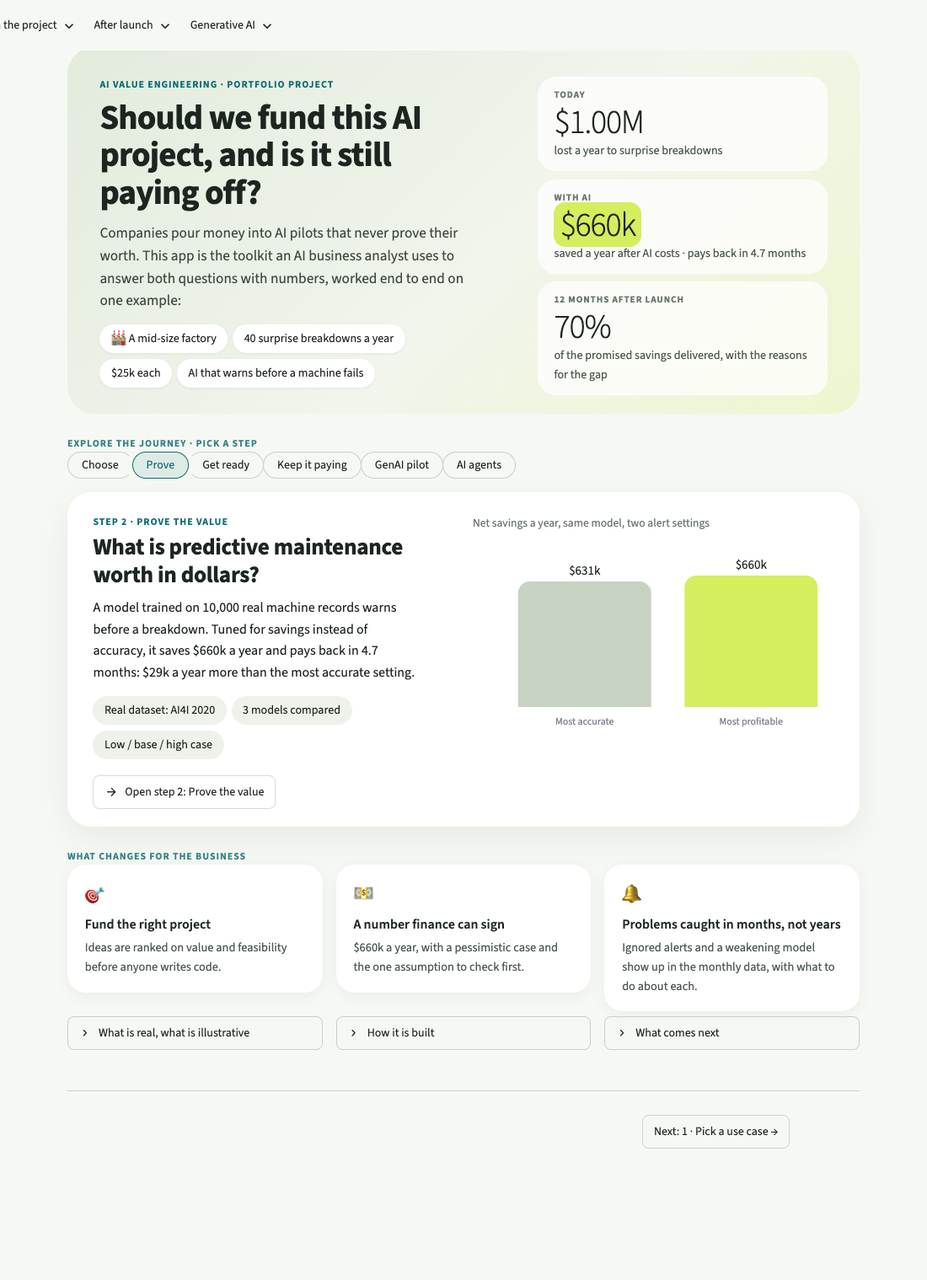
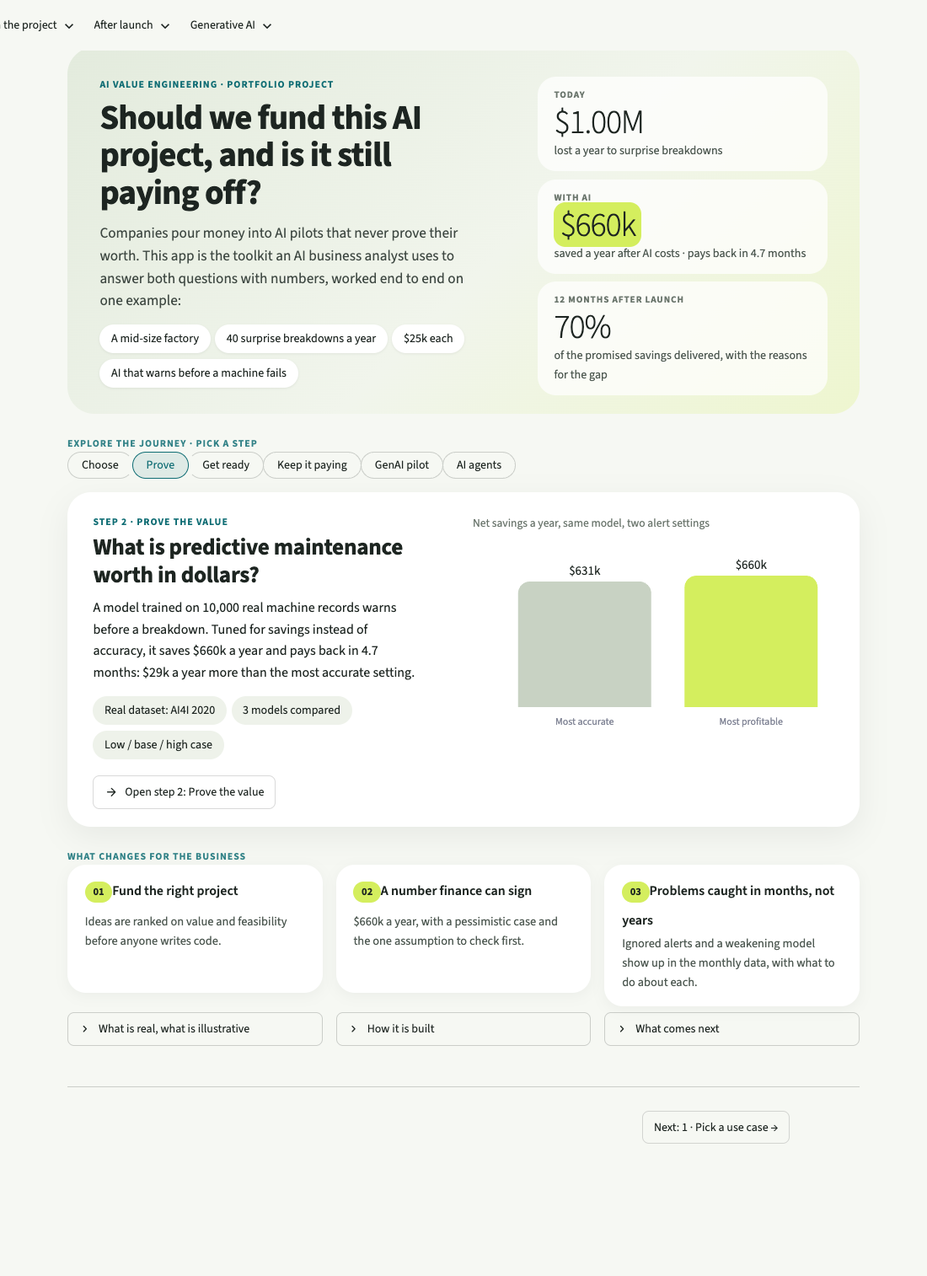
Remove emojis; monthly bars instead of the cumulative fan chart on Track and overview

diff --git a/app.py b/app.py
@@ -59,7 +59,7 @@ from src.value import (
     sweep,
 )
 
-st.set_page_config(page_title="AI Use-Case ROI Navigator", page_icon="📈", layout="wide")
+st.set_page_config(page_title="AI Use-Case ROI Navigator", page_icon=":material/insights:", layout="wide")
 
 QUADRANT_COLORS = {
     "Quick win": "#1d7a45",
@@ -515,6 +515,22 @@ def load_pipeline() -> dict | None:
     return {"gold": gold, "log": log, "matches": bool(matches)}
 
 
+def monthly_vs_forecast(t: pd.DataFrame, ok_color: str, alert_color: str, height: int = 320) -> go.Figure:
+    """Actual net savings per month as bars, the monthly forecast as a dashed line; alert months highlighted."""
+    alert = t["adoption_alert"] | t["drift_alert"]
+    why = np.where(t["drift_alert"] & t["adoption_alert"], "adoption and drift alert",
+                   np.where(t["drift_alert"], "drift alert", np.where(t["adoption_alert"], "adoption alert", "on track")))
+    fig = go.Figure([
+        go.Bar(x=t["month"], y=t["actual"], name="Actual", showlegend=False, marker=dict(color=np.where(alert, alert_color, ok_color),
+                                                                         cornerradius=6),
+               customdata=why, hovertemplate="%{x}: %{y:$,.0f} (%{customdata})<extra></extra>"),
+        go.Scatter(x=t["month"], y=t["forecast"], name="Forecast", mode="lines", line=dict(color="#15222a", dash="dash", width=2),
+                   hovertemplate="Forecast %{y:$,.0f}<extra></extra>")])
+    fig.update_layout(height=height, margin=dict(l=10, r=10, t=10, b=10), yaxis=dict(tickformat="$,.0f", title=""),
+                      xaxis_title="", legend=dict(orientation="h", y=-0.2), bargap=0.25)
+    return fig
+
+
 def page_track():
     answer, client, detail = page_header(5, "Is it paying off?",
                                          "After launch, monthly counts from the maintenance system are turned into "
@@ -546,7 +562,7 @@ def page_track():
                 f"flow through bronze (as received) → silver (checked) → gold (dollars, adoption, drift). "
                 f"Last refresh {log['refreshed_at'][:16].replace('T', ' ')} UTC: {log['bronze_rows']} files received, "
                 f"{log['silver_rows']} passed the checks, {len(log['quarantined'])} quarantined. "
-                + ("Gold matches this page's formula exactly." if pipe["matches"] else "⚠ Gold differs from this page's formula.")))
+                + ("Gold matches this page's formula exactly." if pipe["matches"] else "Warning: gold differs from this page's formula.")))
             for q in log["quarantined"]:
                 st.markdown(md(f"- Quarantined `{q['file']}` ({q['month']}): {q['reason']}"))
         st.caption("The data is a simulated 12-month rollout, not real plant data: adoption is slow at first, then "
@@ -632,17 +648,7 @@ def page_track():
     with t_data:
         st.dataframe(t[COLUMNS + ["recall", "adoption", "actual", "forecast"]].round(2), hide_index=True, width="stretch")
 
-    lo, hi = val["band"]["annual_net"]
-    k = np.arange(1, n + 1)
-    figc = go.Figure()
-    figc.add_trace(go.Scatter(x=t["month"], y=hi / 12 * k, mode="lines", line=dict(width=0), showlegend=False, hoverinfo="skip"))
-    figc.add_trace(go.Scatter(x=t["month"], y=lo / 12 * k, mode="lines", fill="tonexty", fillcolor="rgba(15,109,116,0.12)",
-                              line=dict(width=0), name="Forecast range", hoverinfo="skip"))
-    figc.add_trace(go.Scatter(x=t["month"], y=t["cum_forecast"], name="Forecast", mode="lines",
-                              line=dict(color="#0f6d74", dash="dash")))
-    figc.add_trace(go.Scatter(x=t["month"], y=t["cum_actual"], name="Actual", mode="lines+markers", line=dict(color="#a25f00")))
-    figc.update_layout(height=320, margin=dict(l=10, r=10, t=10, b=10), yaxis=dict(tickformat="$,.0f", title=""),
-                       xaxis_title="", legend=dict(orientation="h", y=-0.2))
+    figc = monthly_vs_forecast(t, "#0f6d74", "#c98a2b", height=320)
 
     steps = []
     if tk["drift_now"]:
@@ -661,7 +667,7 @@ def page_track():
               ("Forecast delivered", f"{pct*100:.0f}%" if np.isfinite(pct) else "n/a", f"of {money(promised)}"),
               ("Failures caught now", f"{recall_now*100:.0f}%" if np.isfinite(recall_now) else "n/a",
                f"{val['recall']*100:.0f}% at launch")])
-        st.markdown("**Cumulative net savings since go-live**")
+        st.markdown("**Net savings each month vs the forecast** (amber = a month with an adoption or drift alert)")
         st.plotly_chart(figc, width="stretch")
         if steps:
             next_steps(steps)
@@ -774,7 +780,7 @@ def page_pilot():
         d1, d2 = st.columns(2)
         for col, v in ((d1, 1), (d2, 2)):
             row = pilot["runs"][v].set_index("case_id").loc[pick]
-            col.markdown(f"**Version {v}** {'✅' if row['correct_mode'] else '❌'}")
+            col.markdown(f"**Version {v}** · {'right cause' if row['correct_mode'] else 'wrong cause'}")
             with col:
                 show_draft(row["reply"])
 
@@ -838,8 +844,7 @@ def show_objections(reply: str):
     d = parse(reply) or {}
     esc = lambda t: md(str(t)).replace("*", "\\*")
     for o in d.get("objections", []):
-        icon = {"high": "🔴", "medium": "🟠", "low": "⚪"}.get(o.get("severity"), "⚪")
-        line = f"{icon} **{esc(o.get('assumption'))}** ({o.get('severity', 'n/a')}): {esc(o.get('issue') or o.get('why') or '')}"
+        line = f"**{str(o.get('severity', 'n/a')).upper()}** · **{esc(o.get('assumption'))}**: {esc(o.get('issue') or o.get('why') or '')}"
         if o.get("issue") and o.get("why"):
             line += f"  \n{esc(o['why'])}"
         st.markdown(line)
@@ -932,7 +937,7 @@ def page_agents():
         m1, m2 = st.columns(2)
         for c, v in ((m1, "v1"), (m2, "v2")):
             g = next(r for r in sc[v]["rows"]["memo"] if r["id"] == pick)
-            c.markdown(f"**{v}** {'✅ every number traces to a fact' if g['faithful'] else '❌ invented: ' + ', '.join(f'{n:,.0f}' for n in g['invented'])}")
+            c.markdown(f"**{v}** {'· every number traces to a fact' if g['faithful'] else '· invented: ' + ', '.join(f'{n:,.0f}' for n in g['invented'])}")
             c.markdown(md(agent_reply(v, pick)).replace("## ", "#### "))
 
     with t_rt:
@@ -1149,22 +1154,15 @@ def tour_content(step: str) -> dict:
         t = default_track_frame()
         tk = default_tracking()
         drift = t.loc[t["drift_alert"], "month"].tolist()
-        fig = go.Figure([
-            go.Scatter(x=t["month"], y=t["cum_forecast"], mode="lines", line=dict(color=SAGE, width=3, dash="dot"),
-                       hoverinfo="skip"),
-            go.Scatter(x=t["month"], y=t["cum_actual"], mode="lines", line=dict(color=INK, width=3), fill="tozeroy",
-                       fillcolor="rgba(212,238,94,0.45)", hoverinfo="skip")])
-        fig.add_annotation(x=t["month"].iloc[-1], y=t["cum_forecast"].iloc[-1], text="forecast", showarrow=False,
-                           xanchor="right", yshift=14, font=dict(color="#6b766d"))
-        fig.add_annotation(x=t["month"].iloc[-1], y=t["cum_actual"].iloc[-1], text=f"actual {money(tk['delivered'])}",
-                           showarrow=False, xanchor="right", yshift=-28, font=dict(color=INK), bgcolor="rgba(255,255,255,0.85)")
+        fig = mini_chart(monthly_vs_forecast(t, SAGE, "#e3a948", height=260), 260)
+        fig.update_yaxes(showticklabels=False)
         return dict(page="track", label="Step 5 · Track the value", q="After launch, is it delivering what was promised?",
                     a=f"Monthly maintenance data flows from S3 through a Databricks pipeline. After {tk['months']} months "
                       f"it delivered **{tk['pct']*100:.0f}% of the forecast**. The app splits the gap into causes and "
                       + (f"flagged in {drift[0]} that the model had started missing failures." if drift
                          else "watches for the model getting worse."),
                     chips=["S3 → Databricks", "Bronze · silver · gold", "Drift and adoption alerts"],
-                    chart_title="Cumulative net savings since go-live (simulated rollout)", fig=mini_chart(fig))
+                    chart_title="Net savings each month vs forecast (amber = alert month, simulated rollout)", fig=fig)
     pilot = load_pilot()["summary"]
     if step == "GenAI pilot":
         s1, s2 = pilot[1], pilot[2]
@@ -1205,7 +1203,7 @@ def page_home():
             'toolkit an AI business analyst uses to answer both questions with numbers, worked end to end on one '
             'example:</div>'
             + "".join(f'<span class="chip">{esc_html(x)}</span>' for x in
-                      ("🏭 A mid-size factory", f"{c.failures_per_year} surprise breakdowns a year",
+                      ("A mid-size factory", f"{c.failures_per_year} surprise breakdowns a year",
                        f"{money(c.cost_missed)} each", "AI that warns before a machine fails")),
             unsafe_allow_html=True)
         right.markdown(
@@ -1239,10 +1237,10 @@ def page_home():
     st.markdown('<div class="row-label">What changes for the business</div>', unsafe_allow_html=True)
     i1, i2, i3 = st.columns(3)
     for col, (icon, head, body) in zip((i1, i2, i3), (
-            ("🎯", "Fund the right project", "Ideas are ranked on value and feasibility before anyone writes code."),
-            ("💵", "A number finance can sign", f"{money(val['annual_net'])} a year, with a pessimistic case and the "
+            ("01", "Fund the right project", "Ideas are ranked on value and feasibility before anyone writes code."),
+            ("02", "A number finance can sign", f"{money(val['annual_net'])} a year, with a pessimistic case and the "
                                                "one assumption to check first."),
-            ("🔔", "Problems caught in months, not years", "Ignored alerts and a weakening model show up in the "
+            ("03", "Problems caught in months, not years", "Ignored alerts and a weakening model show up in the "
                                                          "monthly data, with what to do about each."))):
         col.markdown(f'<div class="why"><div class="why-icon">{icon}</div><b>{esc_html(head)}</b>'
                      f'<div class="why-text">{esc_html(body)}</div></div>', unsafe_allow_html=True)
@@ -1310,7 +1308,7 @@ st.markdown("""
 .chart-title { font-size: 0.85rem; color: #6b766d; margin-bottom: 0.2rem; }
 [data-testid="stButtonGroup"] button { border-radius: 999px !important; padding: 0.35rem 1rem; }
 .why { background: #fff; border-radius: 22px; padding: 1.1rem 1.3rem; min-height: 9.5rem; margin-bottom: 0.4rem; box-shadow: 0 4px 16px rgba(29, 37, 33, 0.05); }
-.why-icon { font-size: 1.4rem; margin-bottom: 0.3rem; }
+.why-icon { display: inline-block; font-size: 0.78rem; font-weight: 700; background: #d4ee5e; border-radius: 999px; padding: 0.15rem 0.6rem; margin-bottom: 0.5rem; }
 .why-text { font-size: 0.9rem; color: #4e5952; margin-top: 0.2rem; }
 @media (max-width: 640px) { .hero-title { font-size: 1.9rem; } .st-key-hero { padding: 1.4rem 1.2rem; border-radius: 24px; } }
 [data-testid="stExpander"] summary { font-weight: 600; }

diff --git a/docs/solution_design.md b/docs/solution_design.md
@@ -73,10 +73,10 @@ Enterprise AI services are commonly organised around four lifecycle stages: **ad
 
 | Lifecycle stage | Customer question | Epics | Built in v1 |
 |---|---|---|---|
-| **Advisory** | Which AI should we do, and is it worth it? | Epic 1 Prioritize, Epic 2 Prove value | ✅ |
-| **Implementation** | Are we ready, and how do we deploy safely? | Epic 3 Readiness, Epic 5 Responsible AI & deployment | ✅ partly |
-| **Adoption** | Will people use it, and can we prove it to finance? | Epic 4 Share, Epic 6 Adoption & value tracking | ✅ |
-| **Managed services** | Is it still delivering value after launch? | Epic 6 Adoption & value tracking | ✅ partly |
+| **Advisory** | Which AI should we do, and is it worth it? | Epic 1 Prioritize, Epic 2 Prove value | Done |
+| **Implementation** | Are we ready, and how do we deploy safely? | Epic 3 Readiness, Epic 5 Responsible AI & deployment | Partly |
+| **Adoption** | Will people use it, and can we prove it to finance? | Epic 4 Share, Epic 6 Adoption & value tracking | Done |
+| **Managed services** | Is it still delivering value after launch? | Epic 6 Adoption & value tracking | Partly |
 
 ### 3.2 Functional requirements (user stories and acceptance criteria)
 
@@ -117,41 +117,41 @@ Enterprise AI services are commonly organised around four lifecycle stages: **ad
 |---|---|---|---|
 | US-5.1 | As an ops director, I want to see why the model flagged a machine, so that technicians trust and act on alerts. | Each alert shows its top 3 drivers (e.g. tool wear, torque) in plain language. | Should (v2) |
 | US-5.2 | As an IT lead, I want to choose whether the model runs on-premises, at the edge or in the cloud, so that sensitive plant data stays where our policy requires. | Deployment option is selectable; running cost and data-location note update with the choice. | Could (v2) |
-| US-5.3 | As a governance owner, I want an accountable owner and a review trigger for model performance, so that the AI stays safe and accurate after launch. | Readiness check includes owner and monitoring questions; verdict flags gaps. | Must ✅ (covered by US-3.1) |
+| US-5.3 | As a governance owner, I want an accountable owner and a review trigger for model performance, so that the AI stays safe and accurate after launch. | Readiness check includes owner and monitoring questions; verdict flags gaps. | Must (done) (covered by US-3.1) |
 
 #### Epic 6 · Adoption & value tracking (Adoption → Managed services)
 | ID | User story | Acceptance criteria | Priority |
 |---|---|---|---|
-| US-6.1 | As an ops director, I want to compare predicted savings with actual results after go-live, so that I can prove the value to finance. | Upload monthly actuals (failures, downtime, false alarms); chart shows predicted vs actual savings. | Should ✅ (Track the value page; gap split into volume, recall, adoption and false alarms) |
-| US-6.2 | As an AI business analyst, I want to track adoption (share of alerts acted on), so that I can spot when users stop trusting the AI. | Adoption rate shown monthly; alert if it drops below 70%. | Should ✅ |
-| US-6.3 | As an AI business analyst, I want to be warned when model accuracy drifts, so that we retrain before value drops. | Alert when recall falls 10 points below launch level. | Could ✅ (3-month rolling recall, since ~3 failures a month is too few to judge one month alone) |
+| US-6.1 | As an ops director, I want to compare predicted savings with actual results after go-live, so that I can prove the value to finance. | Upload monthly actuals (failures, downtime, false alarms); chart shows predicted vs actual savings. | Should (done) (Track the value page; gap split into volume, recall, adoption and false alarms) |
+| US-6.2 | As an AI business analyst, I want to track adoption (share of alerts acted on), so that I can spot when users stop trusting the AI. | Adoption rate shown monthly; alert if it drops below 70%. | Should (done) |
+| US-6.3 | As an AI business analyst, I want to be warned when model accuracy drifts, so that we retrain before value drops. | Alert when recall falls 10 points below launch level. | Could (done) (3-month rolling recall, since ~3 failures a month is too few to judge one month alone) |
 | US-6.4 | As an ops director, I want the tool to suggest the next AI use case once the first is live, so that we expand value step by step. | After a "Go" verdict, the summary lists the next 2 quick wins from Epic 1. | Could (v2) |
 
 #### Epic 7 · GenAI pilot (Advisory → Implementation)
 | ID | User story | Acceptance criteria | Priority |
 |---|---|---|---|
-| US-7.1 | As an AI business analyst, I want to count every cost of a GenAI assistant, not just the subscription, so that the ROI isn't overstated. | Five cost categories (usage, setup, review, training, errors); reproduces the Forbes worked example (162%). | Must ✅ |
-| US-7.2 | As a finance partner, I want to see cash value separately from freed-up time, so that I only bank savings that reach the P&L. | Share of saved hours that becomes cash is an input; cash ROI shown next to ROI. | Must ✅ |
-| US-7.3 | As an AI business analyst, I want to measure cost, speed and accuracy in a real pilot before committing, so that the business case uses evidence instead of guesses. | 30 real alerts run on Amazon Bedrock; tokens, latency and cost recorded per call; drafts graded against the known cause. | Must ✅ |
-| US-7.4 | As a maintenance manager, I want the AI's diagnosis to be reliable, so that technicians don't act on a wrong cause. | Diagnosis moved to a rule check; model only writes the work order; right cause on all real failures in the pilot. | Must ✅ |
-| US-7.5 | As an AI business analyst, I want to know the review time at which the assistant stops paying, so that I know what to measure in production. | Break-even review minutes per draft shown. | Should ✅ |
+| US-7.1 | As an AI business analyst, I want to count every cost of a GenAI assistant, not just the subscription, so that the ROI isn't overstated. | Five cost categories (usage, setup, review, training, errors); reproduces the Forbes worked example (162%). | Must (done) |
+| US-7.2 | As a finance partner, I want to see cash value separately from freed-up time, so that I only bank savings that reach the P&L. | Share of saved hours that becomes cash is an input; cash ROI shown next to ROI. | Must (done) |
+| US-7.3 | As an AI business analyst, I want to measure cost, speed and accuracy in a real pilot before committing, so that the business case uses evidence instead of guesses. | 30 real alerts run on Amazon Bedrock; tokens, latency and cost recorded per call; drafts graded against the known cause. | Must (done) |
+| US-7.4 | As a maintenance manager, I want the AI's diagnosis to be reliable, so that technicians don't act on a wrong cause. | Diagnosis moved to a rule check; model only writes the work order; right cause on all real failures in the pilot. | Must (done) |
+| US-7.5 | As an AI business analyst, I want to know the review time at which the assistant stops paying, so that I know what to measure in production. | Break-even review minutes per draft shown. | Should (done) |
 
 #### Epic 8 · Analyst agents and evals (Implementation)
 | ID | User story | Acceptance criteria | Priority |
 |---|---|---|---|
-| US-8.1 | As an ops manager, I want to describe a use case in plain English and get calculator inputs, so that I don't need to know the ROI model. | Intake agent extracts tasks/year, minutes saved, review minutes, hourly cost and people; converts units in code; anything not stated stays blank with a question. | Must ✅ |
-| US-8.2 | As a CFO, I want a one-page memo where every number matches the business case, so that I can trust what I sign. | Memo agent writes with `{fact}` placeholders that code fills in; grader finds no number that isn't in the facts. | Must ✅ |
-| US-8.3 | As a CFO, I want a skeptical review that finds the weakest assumption, so that inflated business cases are sent back before approval. | Planted flaw in 6 of 6 cases raised as high/medium and listed first; no high-severity alarm on a sound case; each flag has a 30-day test. | Must ✅ |
-| US-8.4 | As an AI business analyst, I want every agent graded automatically on cases with known answers, so that prompt changes are measured, not judged by eye. | `python -m agents.grade` prints a v1 / v2 / v3 scorecard from saved runs; graders covered by unit tests. | Must ✅ |
-| US-8.5 | As the app owner, I want the public demo to show saved results and run live only where AWS credentials exist, so that visitors can't spend my credits. | Live intake only when an AWS profile is available; otherwise saved results with an explanation. | Should ✅ |
+| US-8.1 | As an ops manager, I want to describe a use case in plain English and get calculator inputs, so that I don't need to know the ROI model. | Intake agent extracts tasks/year, minutes saved, review minutes, hourly cost and people; converts units in code; anything not stated stays blank with a question. | Must (done) |
+| US-8.2 | As a CFO, I want a one-page memo where every number matches the business case, so that I can trust what I sign. | Memo agent writes with `{fact}` placeholders that code fills in; grader finds no number that isn't in the facts. | Must (done) |
+| US-8.3 | As a CFO, I want a skeptical review that finds the weakest assumption, so that inflated business cases are sent back before approval. | Planted flaw in 6 of 6 cases raised as high/medium and listed first; no high-severity alarm on a sound case; each flag has a 30-day test. | Must (done) |
+| US-8.4 | As an AI business analyst, I want every agent graded automatically on cases with known answers, so that prompt changes are measured, not judged by eye. | `python -m agents.grade` prints a v1 / v2 / v3 scorecard from saved runs; graders covered by unit tests. | Must (done) |
+| US-8.5 | As the app owner, I want the public demo to show saved results and run live only where AWS credentials exist, so that visitors can't spend my credits. | Live intake only when an AWS profile is available; otherwise saved results with an explanation. | Should (done) |
 
 #### Epic 9 · Data pipeline (Implementation → Managed services)
 | ID | User story | Acceptance criteria | Priority |
 |---|---|---|---|
-| US-9.1 | As a plant IT lead, I want to drop each month's actuals file in one secure place, so that nobody emails spreadsheets around. | Private S3 bucket in us-east-2: public access blocked, encrypted, versioned, HTTPS only, access logged to CloudWatch. | Must ✅ |
-| US-9.2 | As an AI business analyst, I want bad files stopped before they reach the numbers, so that finance never sees impossible savings. | Silver layer applies the Track value checks; failing rows go to a quarantine table with the reason; a planted bad file is quarantined. | Must ✅ |
-| US-9.3 | As a finance partner, I want the pipeline's numbers to match the app exactly, so that there is one version of the truth. | Gold table (Databricks SQL) equals `src/tracking.py` (pandas) for every month, to the cent, including alert flags; checked by a unit test and shown in the app. | Must ✅ |
-| US-9.4 | As a data engineer, I want re-runs to be safe, so that a retry never double-counts a month. | `COPY INTO` skips files already loaded (second run loads 0 rows); a resent file for a month replaces the earlier one in silver. | Should ✅ |
+| US-9.1 | As a plant IT lead, I want to drop each month's actuals file in one secure place, so that nobody emails spreadsheets around. | Private S3 bucket in us-east-2: public access blocked, encrypted, versioned, HTTPS only, access logged to CloudWatch. | Must (done) |
+| US-9.2 | As an AI business analyst, I want bad files stopped before they reach the numbers, so that finance never sees impossible savings. | Silver layer applies the Track value checks; failing rows go to a quarantine table with the reason; a planted bad file is quarantined. | Must (done) |
+| US-9.3 | As a finance partner, I want the pipeline's numbers to match the app exactly, so that there is one version of the truth. | Gold table (Databricks SQL) equals `src/tracking.py` (pandas) for every month, to the cent, including alert flags; checked by a unit test and shown in the app. | Must (done) |
+| US-9.4 | As a data engineer, I want re-runs to be safe, so that a retry never double-counts a month. | `COPY INTO` skips files already loaded (second run loads 0 rows); a resent file for a month replaces the earlier one in silver. | Should (done) |
 
 ### 3.3 Non-functional requirements
 | Category | Requirement |
@@ -245,31 +245,31 @@ Each acceptance criterion is tested before release. Results below; run `pytest` 
 
 | Test | Linked stories | Method | Result |
 |---|---|---|---|
-| Ranking matches manual calculation for 3 use cases | US-1.1 | Compare app output to hand calculation | ✅ Passed (e.g. predictive maintenance: value 4.75, feasibility 3.80, priority 18.05) |
-| Filters and weight changes update instantly | US-1.2, US-1.3 | Manual UI test | ✅ Passed |
-| Model metrics come from test data only | US-2.5 | Stratified 70/30 split; all metrics on 3,000 unseen records | ✅ Passed |
-| Dollar-optimal threshold differs from accuracy-optimal | US-2.3 | Compare both on the test set (default costs) | ✅ Passed: 0.05 vs 0.90; dollar-optimal saves $29k/year more |
-| Verdict rules give the expected result for 3 sample checklists | US-3.2 | Unit tests (`tests/test_core.py`) | ✅ Passed |
-| Dollar math matches hand calculation | US-2.2 | Unit test on a 4-record example | ✅ Passed |
-| Uncertainty range contains the point estimate | US-2.7 | Unit test (`tests/test_core.py`) | ✅ Passed: default case $660k, range $611k–$704k |
-| Scenarios are ordered low ≤ base ≤ high; tornado sorted by impact | US-2.8 | Unit test (`tests/test_core.py`) | ✅ Passed: low case $164k/year, 20.5-month payback |
-| Actual savings match hand calculation; adoption and drift alerts fire on the right months | US-6.1, US-6.2, US-6.3 | Unit test on a 4-month example | ✅ Passed |
-| Gap causes add up exactly to actual − forecast; actuals equal to the forecast give no gap | US-6.1 | Unit tests (5 simulated rollouts + exact-match case) | ✅ Passed: sample rollout $464k vs $660k forecast, gap −$197k |
-| Bad actuals files are rejected with a clear message | US-6.1 | Unit test (missing column, impossible counts) | ✅ Passed |
-| GenAI ROI reproduces the Forbes bookkeeping example | US-7.1 | Unit test | ✅ Passed: cost $6,350, gain $16,640, ROI 162% |
-| Cash + capacity = total gain; break-even review gives zero net value | US-7.2, US-7.5 | Unit tests | ✅ Passed |
-| Pilot v1 (model diagnoses and writes) | US-7.3 | 30 Bedrock calls, graded against true cause | ❌ 33% right cause (42% on real failures, 0 of 6 false alarms); $0.000038 per draft, 0.9 s |
-| Pilot v2 (rule check diagnoses, model writes) | US-7.4 | Same 30 alerts | ✅ 100% right cause on real failures (83% overall), diagnosis kept in 30/30 drafts; 4 drafts mention PC parts, so review stays |
-| Rule check matches the manual and every real failure in the pilot set | US-7.4 | Unit test | ✅ Passed |
-| Agents v1 (model does everything) | US-8.1–8.3 | 17 Bedrock calls (Nova Lite), graded in code | ❌ Intake 42% fields right (arithmetic inside JSON); 1 of 2 memos invented a number; red team caught 3 of 6 planted flaws |
-| Agents v2 (model quotes, code converts and fills in numbers) | US-8.1, US-8.2 | 19 calls, same graders | ✅ Intake 100%, nothing invented; 2 of 2 memos faithful. ❌ Red team still 2 of 6, even when given the ratios |
-| Agents v3 red team (code checklist judges, model explains) | US-8.3 | 9 calls | ✅ 6 of 6 planted flaws caught and listed first; 0 false alarms on the sound case; model explained 8 of 9 flags. Held-out flaws 2 of 2, but known when the checklist was written, so not a blind test |
-| Unit conversion, quote check, placeholder fill-in, checklist verdict | US-8.1–8.4 | Unit tests | ✅ Passed |
-| Live mode hidden without AWS credentials | US-8.5 | Manual test with credentials removed | ✅ Passed |
-| Bucket controls in place | US-9.1 | Read back every setting after creation | ✅ Passed: public access blocked, ACLs disabled, versioning on, SSE-S3 with SSE-C blocked, HTTPS-only policy, logs to CloudWatch, us-east-2 |
-| Planted bad file is quarantined | US-9.2 | 13 files landed, one with prevented > flagged | ✅ Passed: 12 months in silver, `month=2027-01/actuals.csv` quarantined with both reasons |
-| Gold table equals the app's formula | US-9.3 | Unit test on the exported gold table | ✅ Passed: identical savings, adoption, recall and flags; $463,500 delivered vs $660,392 forecast |
-| Re-run does not double-count | US-9.4 | Run the job twice | ✅ Passed: second run loaded 0 rows |
+| Ranking matches manual calculation for 3 use cases | US-1.1 | Compare app output to hand calculation | Passed (e.g. predictive maintenance: value 4.75, feasibility 3.80, priority 18.05) |
+| Filters and weight changes update instantly | US-1.2, US-1.3 | Manual UI test | Passed |
+| Model metrics come from test data only | US-2.5 | Stratified 70/30 split; all metrics on 3,000 unseen records | Passed |
+| Dollar-optimal threshold differs from accuracy-optimal | US-2.3 | Compare both on the test set (default costs) | Passed: 0.05 vs 0.90; dollar-optimal saves $29k/year more |
+| Verdict rules give the expected result for 3 sample checklists | US-3.2 | Unit tests (`tests/test_core.py`) | Passed |
+| Dollar math matches hand calculation | US-2.2 | Unit test on a 4-record example | Passed |
+| Uncertainty range contains the point estimate | US-2.7 | Unit test (`tests/test_core.py`) | Passed: default case $660k, range $611k–$704k |
+| Scenarios are ordered low ≤ base ≤ high; tornado sorted by impact | US-2.8 | Unit test (`tests/test_core.py`) | Passed: low case $164k/year, 20.5-month payback |
+| Actual savings match hand calculation; adoption and drift alerts fire on the right months | US-6.1, US-6.2, US-6.3 | Unit test on a 4-month example | Passed |
+| Gap causes add up exactly to actual − forecast; actuals equal to the forecast give no gap | US-6.1 | Unit tests (5 simulated rollouts + exact-match case) | Passed: sample rollout $464k vs $660k forecast, gap −$197k |
+| Bad actuals files are rejected with a clear message | US-6.1 | Unit test (missing column, impossible counts) | Passed |
+| GenAI ROI reproduces the Forbes bookkeeping example | US-7.1 | Unit test | Passed: cost $6,350, gain $16,640, ROI 162% |
+| Cash + capacity = total gain; break-even review gives zero net value | US-7.2, US-7.5 | Unit tests | Passed |
+| Pilot v1 (model diagnoses and writes) | US-7.3 | 30 Bedrock calls, graded against true cause | Failed: 33% right cause (42% on real failures, 0 of 6 false alarms); $0.000038 per draft, 0.9 s |
+| Pilot v2 (rule check diagnoses, model writes) | US-7.4 | Same 30 alerts | Passed: 100% right cause on real failures (83% overall), diagnosis kept in 30/30 drafts; 4 drafts mention PC parts, so review stays |
+| Rule check matches the manual and every real failure in the pilot set | US-7.4 | Unit test | Passed |
+| Agents v1 (model does everything) | US-8.1–8.3 | 17 Bedrock calls (Nova Lite), graded in code | Failed: Intake 42% fields right (arithmetic inside JSON); 1 of 2 memos invented a number; red team caught 3 of 6 planted flaws |
+| Agents v2 (model quotes, code converts and fills in numbers) | US-8.1, US-8.2 | 19 calls, same graders | Passed: Intake 100%, nothing invented; 2 of 2 memos faithful. Failed: Red team still 2 of 6, even when given the ratios |
+| Agents v3 red team (code checklist judges, model explains) | US-8.3 | 9 calls | Passed: 6 of 6 planted flaws caught and listed first; 0 false alarms on the sound case; model explained 8 of 9 flags. Held-out flaws 2 of 2, but known when the checklist was written, so not a blind test |
+| Unit conversion, quote check, placeholder fill-in, checklist verdict | US-8.1–8.4 | Unit tests | Passed |
+| Live mode hidden without AWS credentials | US-8.5 | Manual test with credentials removed | Passed |
+| Bucket controls in place | US-9.1 | Read back every setting after creation | Passed: public access blocked, ACLs disabled, versioning on, SSE-S3 with SSE-C blocked, HTTPS-only policy, logs to CloudWatch, us-east-2 |
+| Planted bad file is quarantined | US-9.2 | 13 files landed, one with prevented > flagged | Passed: 12 months in silver, `month=2027-01/actuals.csv` quarantined with both reasons |
+| Gold table equals the app's formula | US-9.3 | Unit test on the exported gold table | Passed: identical savings, adoption, recall and flags; $463,500 delivered vs $660,392 forecast |
+| Re-run does not double-count | US-9.4 | Run the job twice | Passed: second run loaded 0 rows |
 
 ---
 
